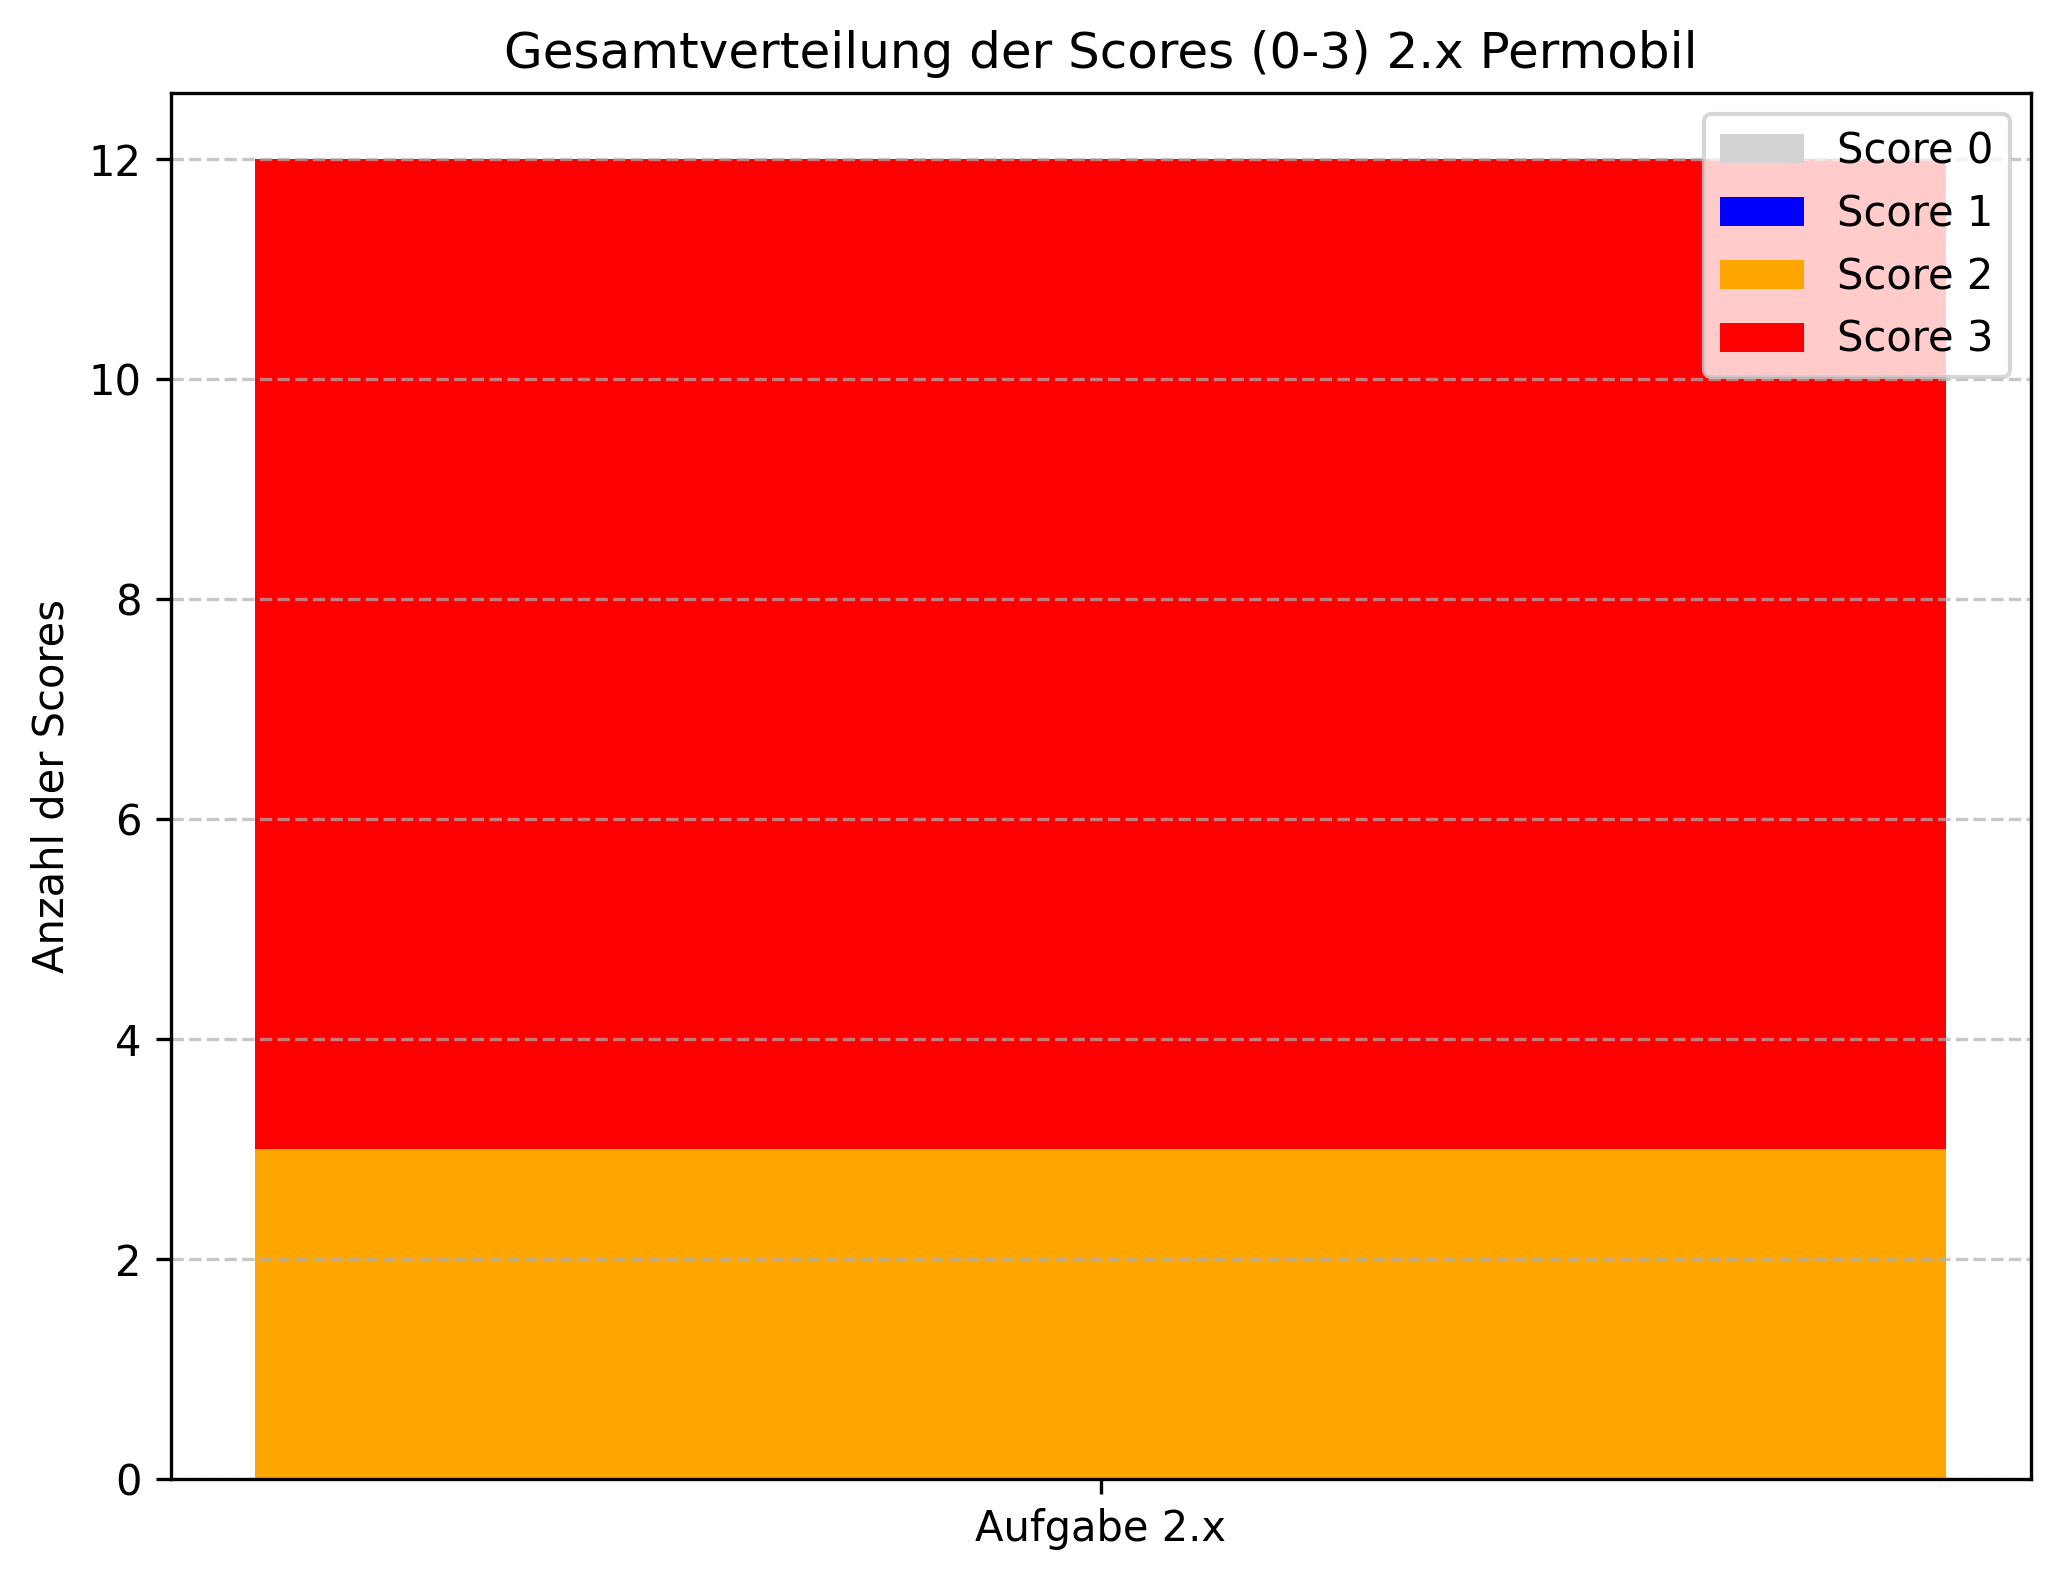
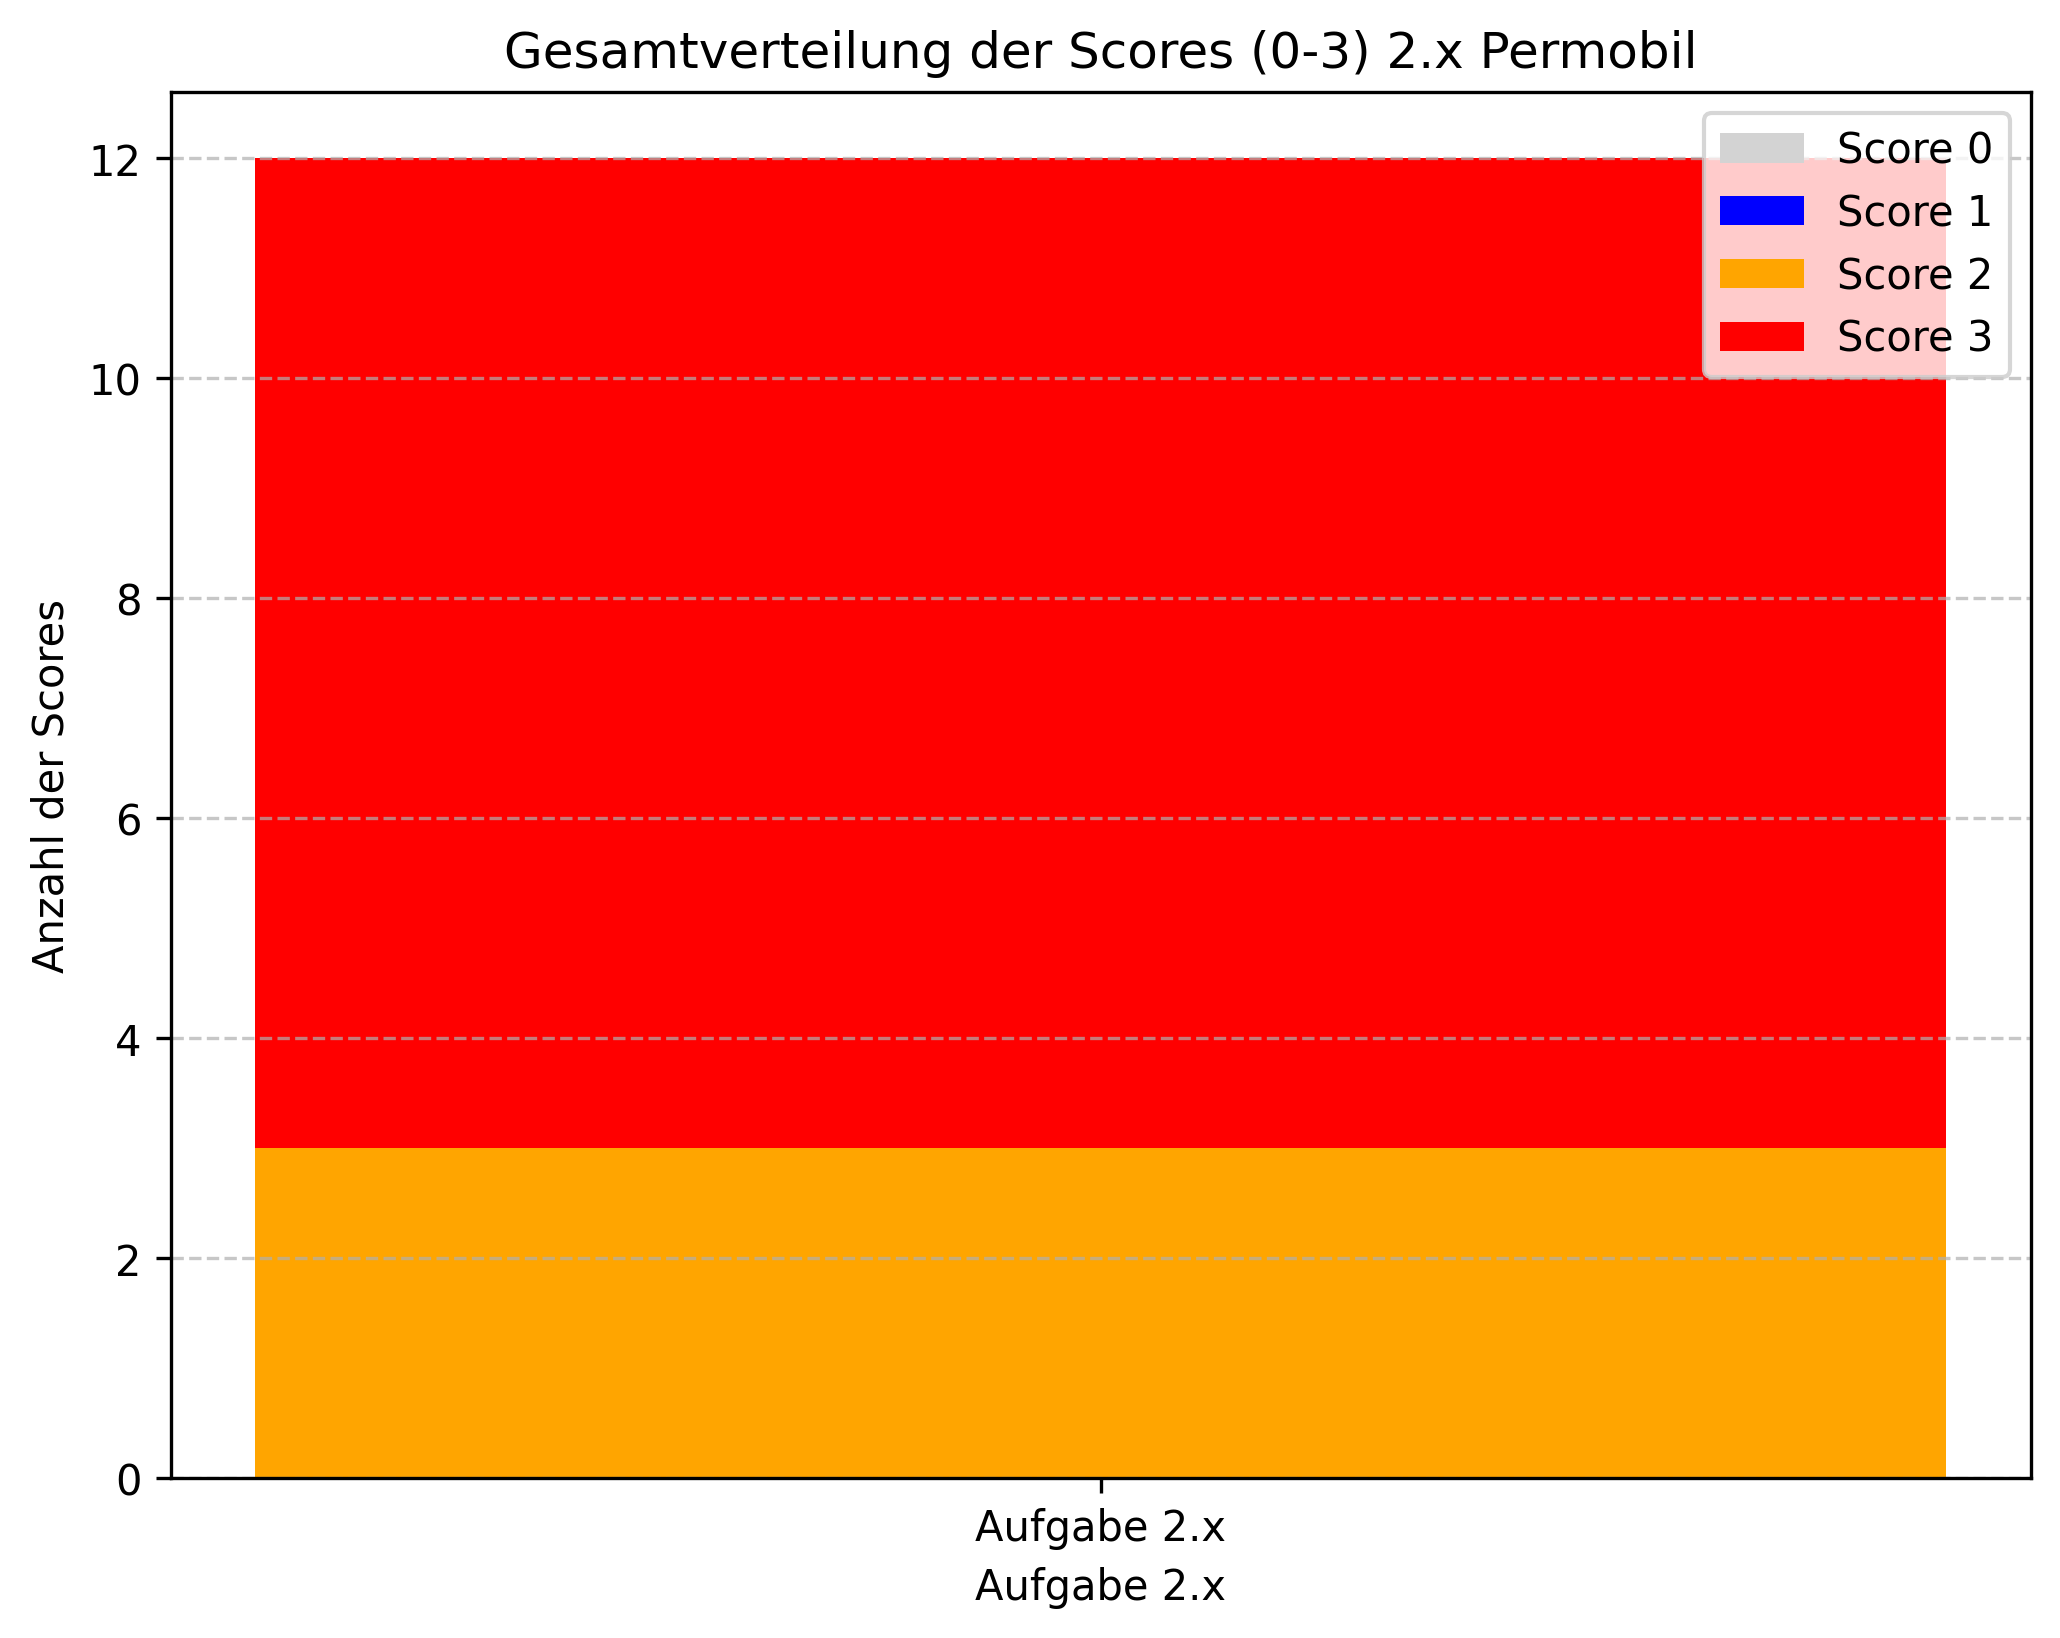
improved

diff --git a/Code/Ad-Interim Analyse.py b/Code/Ad-Interim Analyse.py
@@ -1,43 +1,22 @@
+# Run main.py first to load the data and then run this code snippet to create the stacked bar plots and histograms.
+
 import pandas as pd
 import numpy as np
 import matplotlib.pyplot as plt
 import os
 import seaborn as sns
 
-print("Module erfolgreich geladen!")
+# Define path and function to load data
+base_dir = os.path.dirname(os.path.abspath(__file__))
+def load_csv(filename):
+    file_path = os.path.join(base_dir, "../Output", filename)
+    return pd.read_csv(file_path)
 
 # Load data
-measurement_data_M1 = pd.read_csv("Data/M1.csv")
-measurement_data_M2 = pd.read_csv("Data/M2.csv")
-screening_data = pd.read_csv("Data/Screening.csv")
-piads_data = pd.read_csv("Data/PIADS.csv")
-interview_data = pd.read_csv("Data/Interview.csv")
-
-# Set Screening data as base
-merged_data = screening_data
-
-# List of dataframes that will be merged in correct order
-dfs = [measurement_data_M1, measurement_data_M2, interview_data, piads_data]
-
-# Function for selective merging according to prefix M1_ or M2_
-def merge_selected_columns(df_base, dfs, prefix, id_col):
-    for df in dfs:
-        selected_cols = [id_col] + [col for col in df.columns if col.startswith(prefix)]
-        if len(selected_cols) > 1:  # Nur mergen, wenn Spalten mit dem Präfix existieren
-            df_base = pd.merge(df_base, df[selected_cols], on=id_col, how="left")
-    return df_base
-
-# Merge all columns from the dataframes that start with 'M1_'
-merged_data = merge_selected_columns(merged_data, dfs, "M1_", "Patient ID")
-
-# Merge all columns from the dataframes that start with 'M2_'
-merged_data = merge_selected_columns(merged_data, dfs, "M2_", "Patient ID")
+merged_data = load_csv("merged_data.csv")
 
 # Sicherstellen, dass df_filtered definiert ist
 df_filtered = merged_data
-
-# **Fix: Original-Spaltennamen beibehalten**
-score_columns = [col for col in merged_data.columns]
 
 # Output-Ordner für die Plots
 project_folder = os.getcwd()  
@@ -51,8 +30,6 @@ def save_stacked_bar_for_tasks(task_prefix, title_suffix, filename):
     if not task_columns:
         print(f"⚠ Keine passenden Spalten für Aufgabe {task_prefix}.x gefunden.")
         return None
-
-    print(f"📝 Gefundene Spalten für Aufgabe {task_prefix}.x: {task_columns}")
 
     score_distribution = {col: {0: 0, 1: 0, 2: 0, 3: 0} for col in task_columns}
 
@@ -72,8 +49,6 @@ def save_stacked_bar_for_tasks(task_prefix, title_suffix, filename):
                 except ValueError:
                     print(f"⚠ Ungültiger Wert in {col}: {score}")
 
-    print(f"📊 Score-Verteilung für {task_prefix}.x:", score_distribution)
-
     score_counts_0 = [score_distribution[col][0] for col in task_columns]
     score_counts_1 = [score_distribution[col][1] for col in task_columns]
     score_counts_2 = [score_distribution[col][2] for col in task_columns]
@@ -88,7 +63,7 @@ def save_stacked_bar_for_tasks(task_prefix, title_suffix, filename):
     ax.bar(["Aufgabe " + task_prefix + ".x"], sum(score_counts_3), bottom=sum(score_counts_0) + sum(score_counts_1) + sum(score_counts_2), label="Score 3", color="red", width=bar_width)
 
     plt.ylabel("Anzahl der Scores")
-    #plt.xlabel(f"Aufgabe {task_prefix}.x")
+    plt.xlabel(f"Aufgabe {task_prefix}.x")
     plt.title(f"Gesamtverteilung der Scores (0-3) {task_prefix}.x {title_suffix}")
     plt.legend()
 
@@ -97,7 +72,6 @@ def save_stacked_bar_for_tasks(task_prefix, title_suffix, filename):
     save_path = os.path.join(output_folder, filename)
     plt.savefig(save_path, dpi=300, bbox_inches="tight")
     plt.close()
-    print(f"✅ Gespeichert: {save_path}")
 
     return save_path
 
@@ -108,8 +82,6 @@ def save_stacked_bar_for_tasks_switched(task_prefix, title_suffix, filename):
     if not task_columns:
         print(f"⚠ Keine passenden Spalten für Aufgabe {task_prefix}.x gefunden.")
         return None
-
-    print(f"📝 Gefundene Spalten für Aufgabe {task_prefix}.x: {task_columns}")
 
     score_distribution = {col: {0: 0, 1: 0, 2: 0, 3: 0} for col in task_columns}
 
@@ -144,7 +116,7 @@ def save_stacked_bar_for_tasks_switched(task_prefix, title_suffix, filename):
 
 
     plt.ylabel("Anzahl der Scores")
-    #plt.xlabel(f"Aufgabe {task_prefix}.x")
+    plt.xlabel(f"Aufgabe {task_prefix}.x")
     plt.title(f"Gesamtverteilung der Scores (0-3) {task_prefix}.x {title_suffix}")
     plt.legend()
 
@@ -153,11 +125,10 @@ def save_stacked_bar_for_tasks_switched(task_prefix, title_suffix, filename):
     save_path = os.path.join(output_folder, filename)
     plt.savefig(save_path, dpi=300, bbox_inches="tight")
     plt.close()
-    print(f"✅ Gespeichert: {save_path}")
 
     return save_path
 
-# **Jetzt beide Versionen speichern**
+# Beide Versionen speichern
 for task in ["1", "2", "3", "4", "5", "6"]:
     save_stacked_bar_for_tasks(task, "BRO", f"aufgabe_{task}_original.png")
     save_stacked_bar_for_tasks_switched(task, "Permobil", f"aufgabe_{task}_switched.png")
@@ -187,7 +158,7 @@ def save_histplot(column_suffix, title_suffix):
     bin_edges = np.arange(0, 9) - 0.5  # Ganze Zahlen von 0 bis 7, mittig ausgerichtet
     bar_width = 0.8  # Abstand zwischen Balken
 
-    # **1⃣ M1 (A) & M2 (B) Histogramm**
+    # M1 (A) & M2 (B) Histogramm
     fig, ax = plt.subplots(figsize=(8, 6))
     sns.histplot(data_a_m1, bins=bin_edges, color="blue", label="M1 (Group A)", ax=ax, multiple="stack", shrink=0.8)
     sns.histplot(data_b_m2, bins=bin_edges, color="red", label="M2 (Group B)", ax=ax, multiple="stack", shrink=0.8)
@@ -203,10 +174,10 @@ def save_histplot(column_suffix, title_suffix):
     plt.savefig(os.path.join(output_folder, f"hist_{column_suffix}_M1A_M2B.png"), dpi=300, bbox_inches="tight")
     plt.close()
 
-    # **2⃣ M2 (A) & M1 (B) Histogramm (gestapelt)**
+    # M2 (A) & M1 (B) Histogramm (gestapelt)
     fig, ax = plt.subplots(figsize=(8, 6))
 
-    # **Fix: Daten kombinieren für richtiges Stapeln**
+    # Fix: Daten kombinieren für richtiges Stapeln
     data_m2a = pd.DataFrame({"Wert": data_a_m2, "Group": "M2 (Group A)"})
     data_m1b = pd.DataFrame({"Wert": data_b_m1, "Group": "M1 (Group B)"})
 
@@ -221,21 +192,17 @@ def save_histplot(column_suffix, title_suffix):
     plt.title(f"Histogramm für {column_suffix} (M2 von A & M1 von B) {title_suffix}")
     plt.xticks(range(0, 8))
 
-    # **Y-Achse auf ganze Zahlen setzen**
+    # Y-Achse auf ganze Zahlen setzen
     max_count = data_combined["Wert"].value_counts().max() + 1
     plt.yticks(range(0, max_count))
 
     ax.yaxis.grid(True, linestyle="--", alpha=0.7)
-    plt.legend()
 
     # Speichern
     plt.savefig(os.path.join(output_folder, f"hist_{column_suffix}_M2A_M1B.png"), dpi=300, bbox_inches="tight")
     plt.close()
 
-
-    print(f"✅ Histogramme für {column_suffix} gespeichert!")
-
-# **Erstelle Histogramme für SSI_3, SSI_9, SSI_10**
+# Erstelle Histogramme für SSI_3, SSI_9, SSI_10
 hist_columns = ["SSI_3", "SSI_9", "SSI_10"]
 for col in hist_columns:
     save_histplot(col, "Histogramm")
